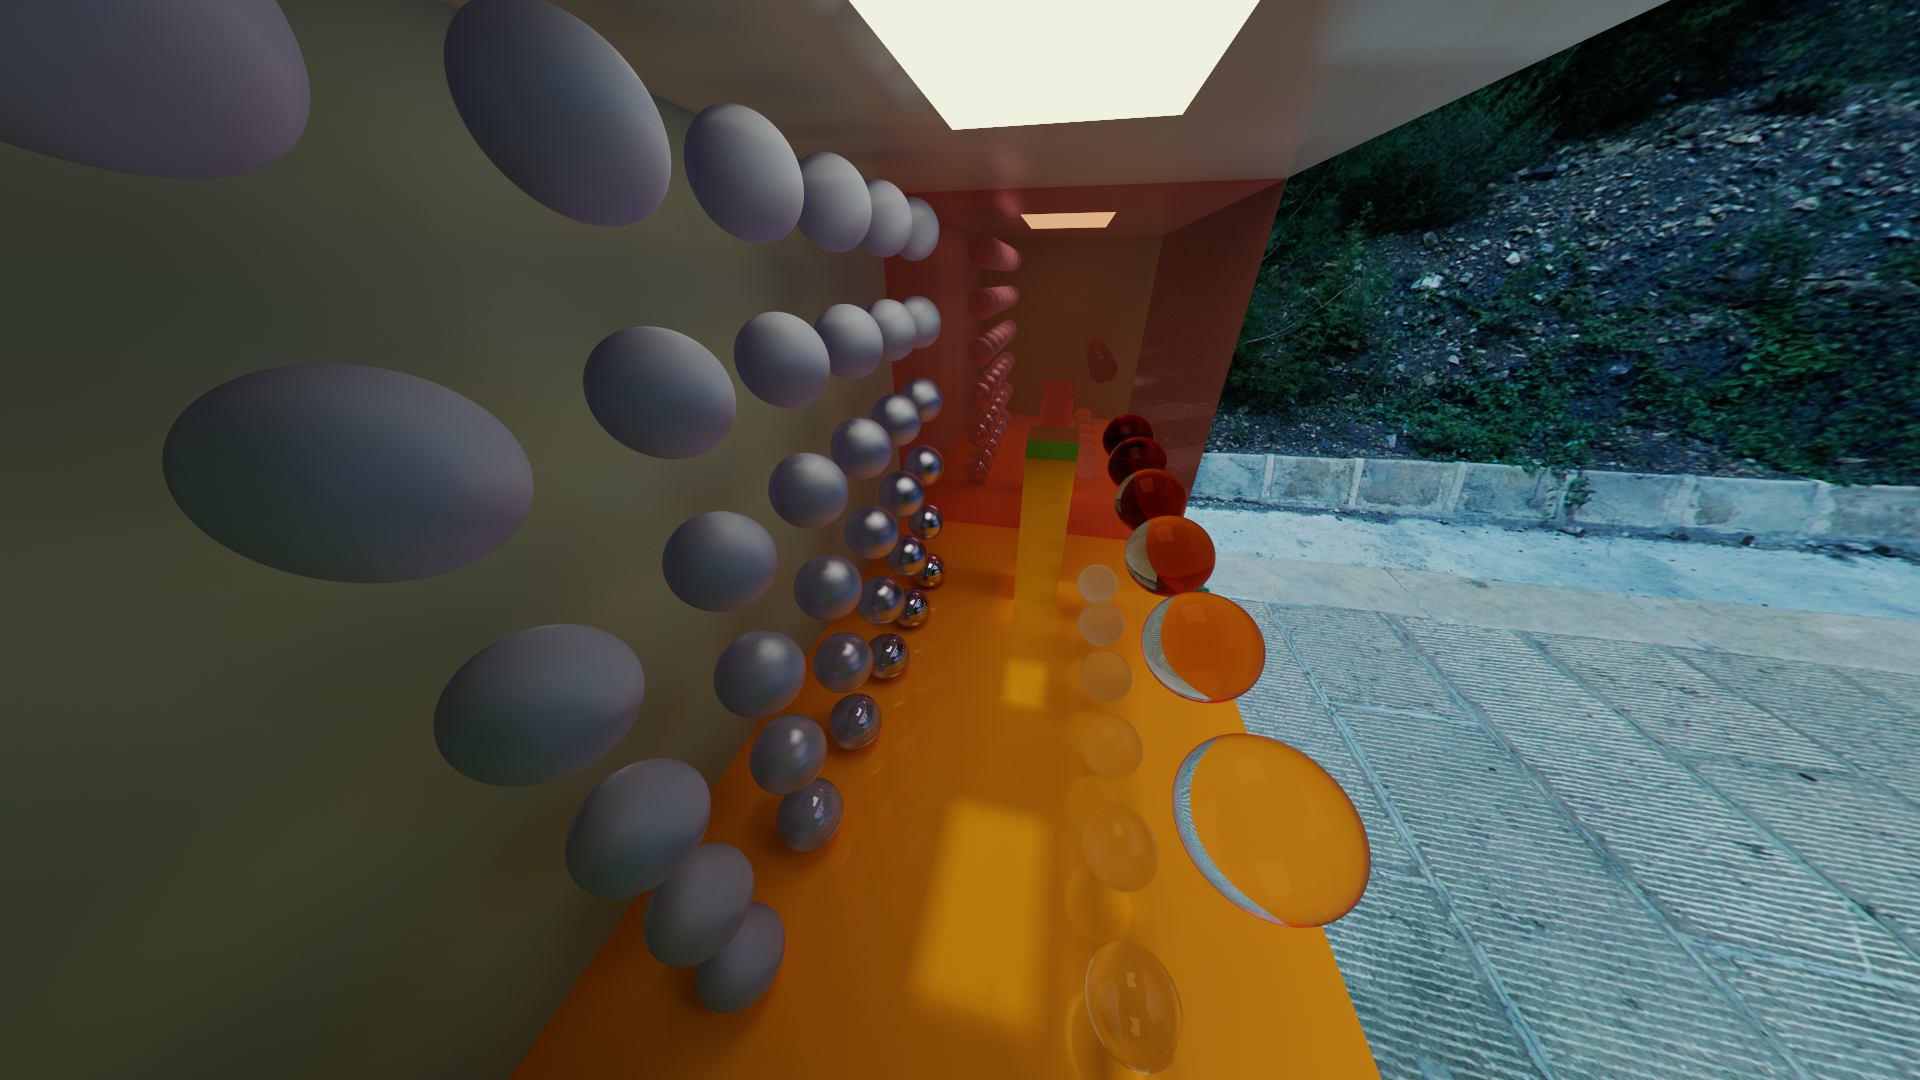
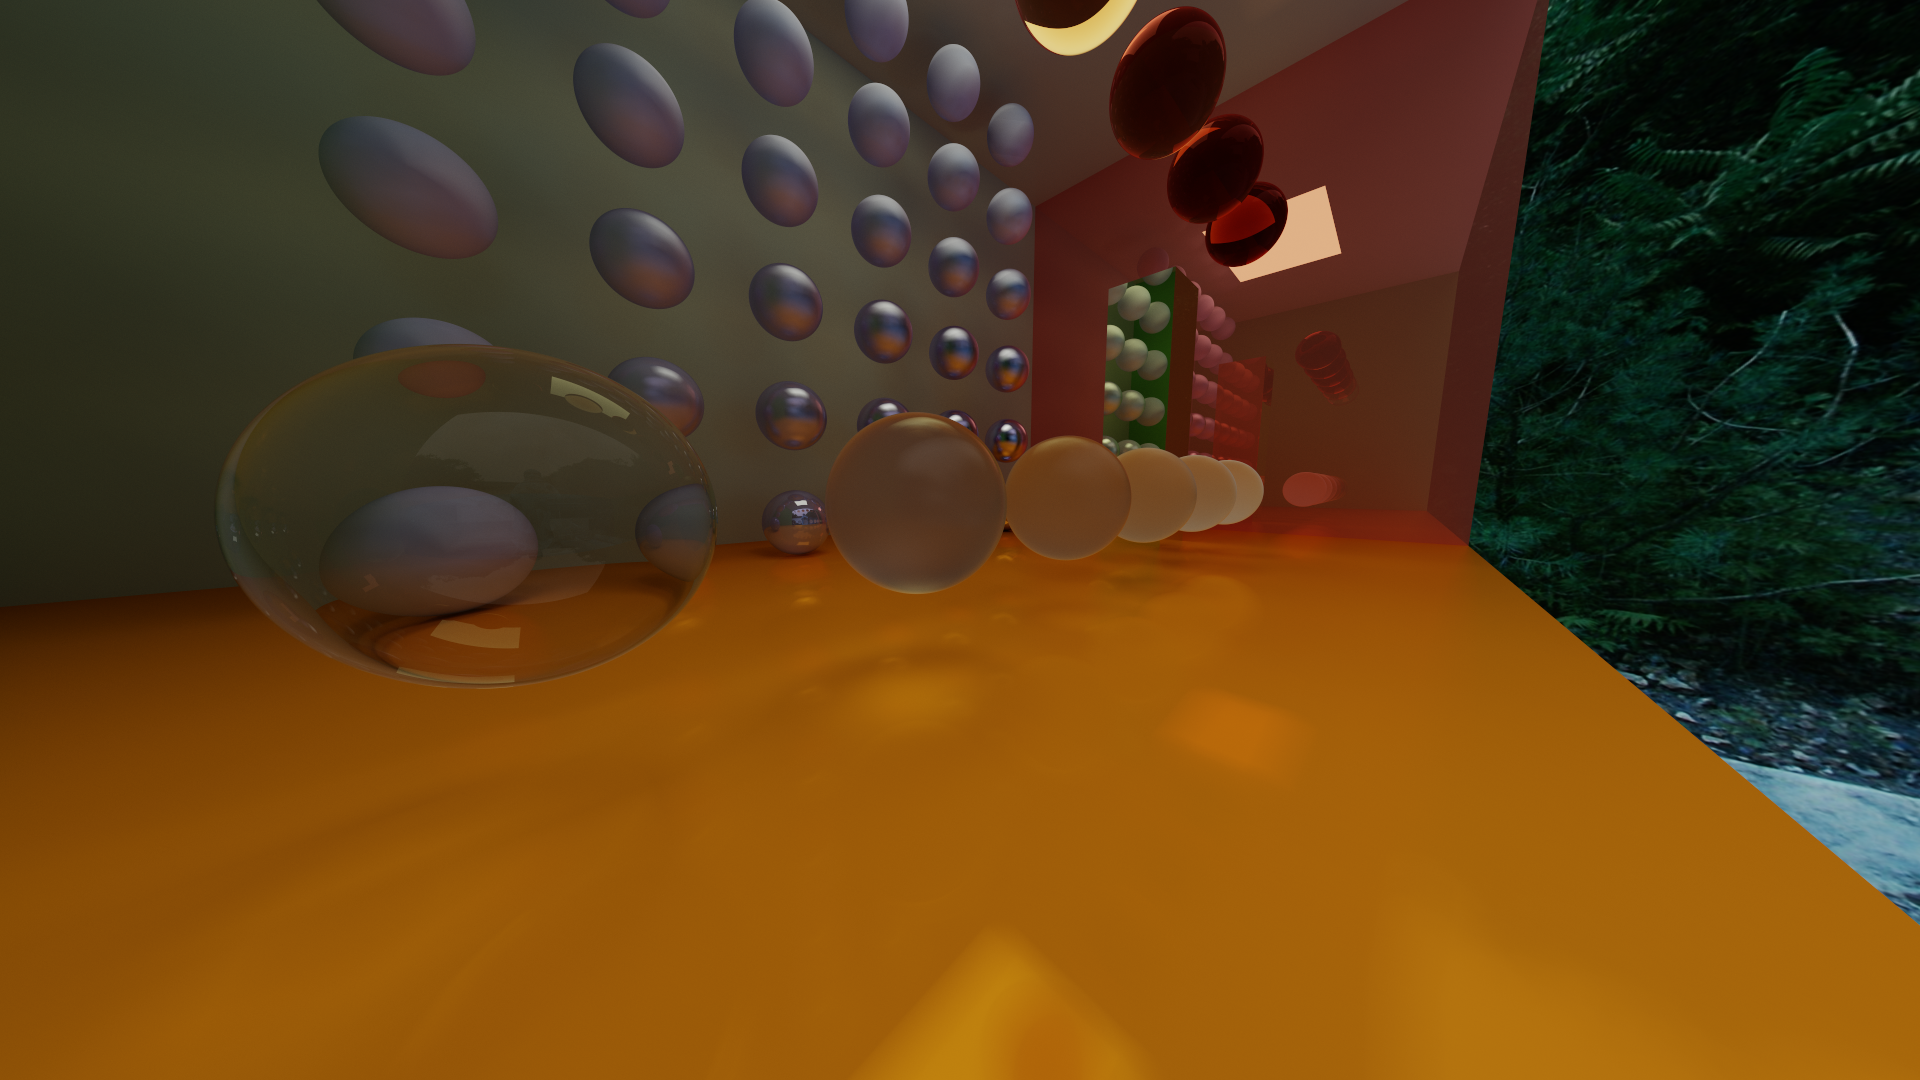
Fixed commit

diff --git a/OpenTK PathTracer/Classes/MainWindow.cs b/OpenTK PathTracer/Classes/MainWindow.cs
@@ -80,7 +80,7 @@ namespace OpenTK_PathTracer
             }
             if (onWindowFocus)
             {
-                grid.Update(gameObjects);
+                //grid.Update(gameObjects);
 
                 if (keyBoardState.IsKeyDown(Key.Escape))
                     Close();
@@ -122,7 +122,6 @@ namespace OpenTK_PathTracer
                     Ray rayWorld = Ray.GetWorldSpaceRay(inverseProjection, camera.View.Inverted(), camera.Position, normalizedDeviceCoords);
 
                     RayTrace(rayWorld, out GameObjectPropertyRenderer.RayObject);
-                    RayTrace(grid, rayWorld, out GameObjectPropertyRenderer.RayObject);
                 }
             }
 
@@ -150,7 +149,7 @@ namespace OpenTK_PathTracer
         protected override void OnLoad(EventArgs e)
         {
             Vector2 uboGameObjectsSize = new Vector2(343, 64);
-            int ssboCellsSize = 10 * 10 * 10;
+            int ssboCellsSize = 8 * 8 * 8;
 
             GL.Disable(EnableCap.DepthTest);
             GL.Disable(EnableCap.CullFace);
@@ -178,7 +177,7 @@ namespace OpenTK_PathTracer
             
             BasicDataUBO = new BufferObject(BufferRangeTarget.UniformBuffer, 0, Vector4.SizeInBytes * 4 * 5 + Vector4.SizeInBytes + Vector4.SizeInBytes, BufferUsageHint.StreamRead);
             GameObjectsUBO = new BufferObject(BufferRangeTarget.UniformBuffer, 1, (int)(Sphere.GPUInstanceSize * uboGameObjectsSize.X + Cuboid.GPUInstanceSize * uboGameObjectsSize.Y), BufferUsageHint.StreamRead);
-            GridCellsSSBO = new BufferObject(BufferRangeTarget.ShaderStorageBuffer, 0, ssboCellsSize * Grid.Cell.GPUInstanceSize + 3000 * sizeof(int), BufferUsageHint.StreamRead);
+            //GridCellsSSBO = new BufferObject(BufferRangeTarget.ShaderStorageBuffer, 0, ssboCellsSize * Grid.Cell.GPUInstanceSize + 1000 * sizeof(int), BufferUsageHint.StreamRead);
 
             Sphere.GlobalClassBufferOffset = 0;
             float width = 40, height = 25, depth = 25;
@@ -192,7 +191,7 @@ namespace OpenTK_PathTracer
                 {
                     for (float y = 0; y < balls; y++)
                     {
-                        gameObjects.Add(new Sphere(new Vector3(dimensions.X / balls * x * 1.1f - dimensions.X / 2, (dimensions.Y / balls) * y - dimensions.Y / 2 + radius, -17), radius, instancesSpheres++, new Material(albedo: new Vector3(0.59f, 0.59f, 0.99f), emissiv: new Vector3(0), refractionColor: Vector3.Zero, specularChance: x / (balls - 1), specularRoughness: y / (balls - 1), indexOfRefraction: 1.4f, refractionChance: 0.3f, refractionRoughnes: 0.1f)));
+                        gameObjects.Add(new Sphere(new Vector3(dimensions.X / balls * x * 1.1f - dimensions.X / 2, (dimensions.Y / balls) * y - dimensions.Y / 2 + radius, -17), radius, instancesSpheres++, new Material(albedo: new Vector3(0.59f, 0.59f, 0.99f), emissiv: new Vector3(0), refractionColor: Vector3.Zero, specularChance: x / (balls - 1), specularRoughness: y / (balls - 1), indexOfRefraction: 1f, refractionChance: 0.0f, refractionRoughnes: 0.1f)));
                     }
                 }
 
@@ -246,7 +245,7 @@ namespace OpenTK_PathTracer
             grid.Update(gameObjects);
 
 
-            // TODO: Clean this up
+            /*
             {
                 Vector4[] gridGPUData = grid.GetGPUFriendlyGridData();
                 GridCellsSSBO.SubData(0, Vector4.SizeInBytes * gridGPUData.Length, gridGPUData);
@@ -255,7 +254,7 @@ namespace OpenTK_PathTracer
                 GridCellsSSBO.SubData(ssboCellsSize * Grid.Cell.GPUInstanceSize, indecisData.Length * sizeof(int), indecisData);
                 pathTracing.program.Upload("ssboCellsSize", grid.Cells.Count);
             }
-
+            */
             
             pathTracing.NumSpheres = instancesSpheres;
             pathTracing.NumCuboids = instancesCuboids;

diff --git a/README.md b/README.md
@@ -1,1 +1,27 @@
-# OpenTK-PathTracer
+# C# OpenGL OpenTK Path Tracer
+
+I am presenting to you a noisy, yet fully [Path Traced](https://de.wikipedia.org/wiki/Path_Tracing) renderer written in C#.  
+
+
+The calculations and rendering are done in real-time using OpenGL.  
+I upload the whole Scene (only consisting out of Cuboids and Spheres for now) to a UBO which is then accessed in a Compute Shader where all the Path Tracing happens.
+Due to the realistic nature of Path Tracers - tracing a ray over many bounces - various effects like soft shadows, reflections and ambient occlusion emerge automatically, without explicitly adding any code like you would have to do in a rasterizer.
+
+## **Controls**
+
+### **KeyBoard:**
+* W, A, S, D => Movment
+* E => make visisble / hide mouse cursor for ImGUI
+* F11 => Go into / out of fullscreen
+* Esc => Close
+
+### **Mouse:**
+* LButton => Select Object
+
+
+## **Render Samples**
+![img1](https://github.com/JulianStambuk/OpenTK-PathTracer/blob/main/Screenshots/img1.png?raw=true)
+
+![img3](https://github.com/JulianStambuk/OpenTK-PathTracer/blob/main/Screenshots/img3.png?raw=true)
+
+![img2](https://github.com/JulianStambuk/OpenTK-PathTracer/blob/main/Screenshots/img2.png?raw=true)
